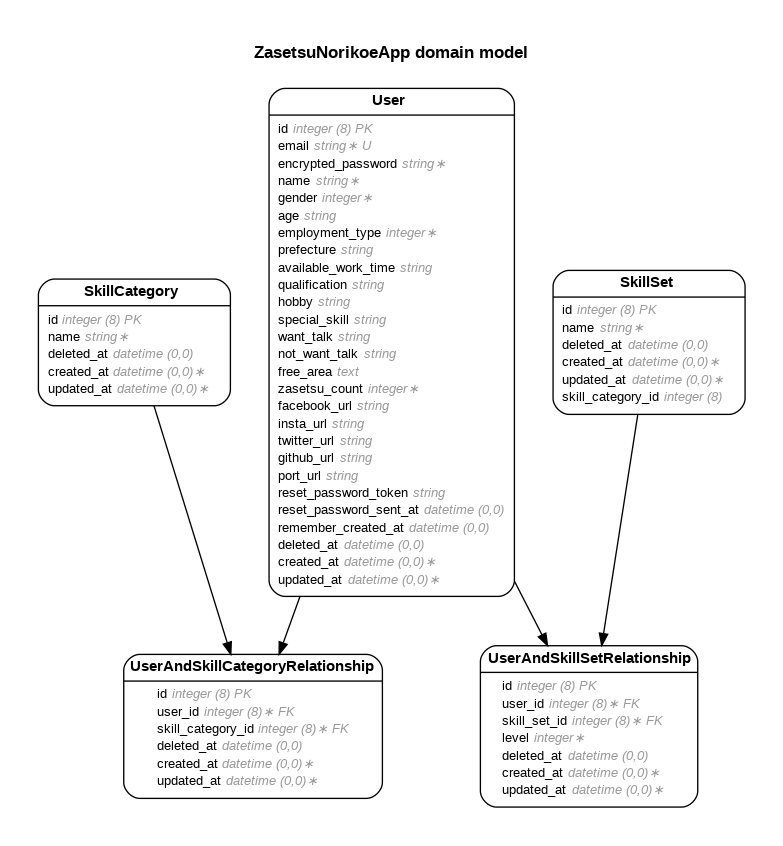
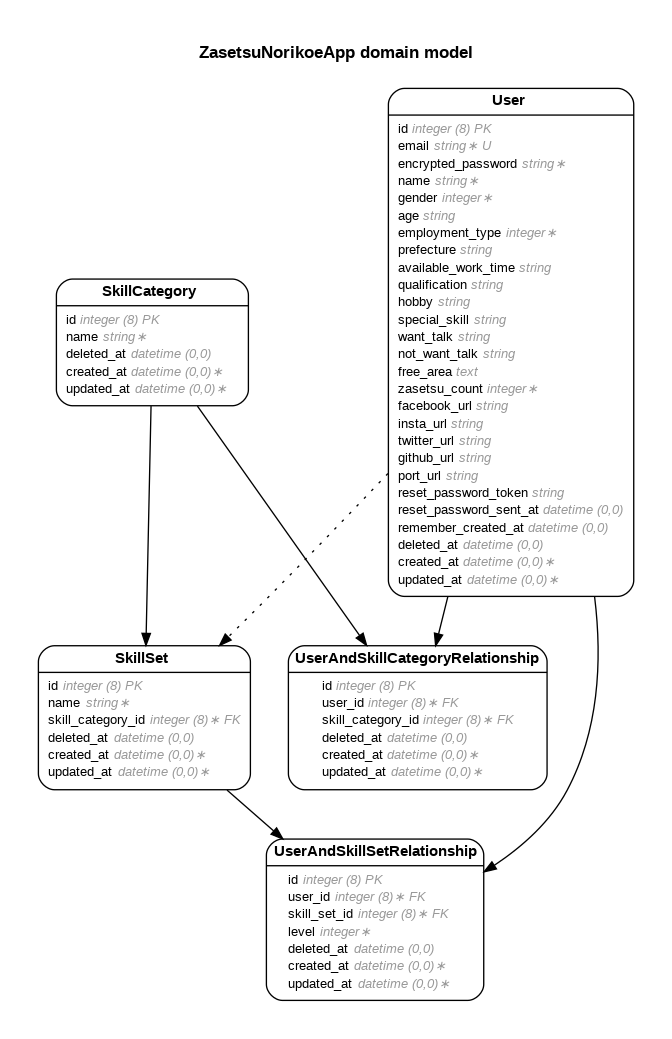
PRコメント修正

diff --git a/db/schema.rb b/db/schema.rb
@@ -10,7 +10,7 @@
 #
 # It's strongly recommended that you check this file into your version control system.
 
-ActiveRecord::Schema.define(version: 2021_03_07_050700) do
+ActiveRecord::Schema.define(version: 2021_02_21_045425) do
 
   create_table "skill_categories", options: "ENGINE=InnoDB DEFAULT CHARSET=utf8", comment: "スキル属性データ(Web制作等)", force: :cascade do |t|
     t.string "name", null: false, comment: "スキル属性名"
@@ -21,10 +21,10 @@ ActiveRecord::Schema.define(version: 2021_03_07_050700) do
 
   create_table "skill_sets", options: "ENGINE=InnoDB DEFAULT CHARSET=utf8", comment: "スキルセットデータ(使用言語, FW等)", force: :cascade do |t|
     t.string "name", null: false, comment: "スキルセット名"
+    t.bigint "skill_category_id", null: false, comment: "スキル属性ID"
     t.datetime "deleted_at", comment: "削除日時"
     t.datetime "created_at", null: false
     t.datetime "updated_at", null: false
-    t.bigint "skill_category_id"
     t.index ["skill_category_id"], name: "index_skill_sets_on_skill_category_id"
   end
 

diff --git a/db/migrate/20210220011736_create_skill_sets.rb b/db/migrate/20210220011736_create_skill_sets.rb
@@ -2,6 +2,7 @@ class CreateSkillSets < ActiveRecord::Migration[5.2]
   def change
     create_table :skill_sets, comment: 'スキルセットデータ(使用言語, FW等)' do |t|
       t.string    :name, null: false, comment: 'スキルセット名'
+      t.references :skill_category, null: false, foreign_key: true, comment: 'スキル属性ID'
       t.datetime  :deleted_at, comment: '削除日時'
 
       t.timestamps

diff --git a/db/fixtures/load/load_data.rb b/db/fixtures/load/load_data.rb
@@ -1,3 +1,5 @@
+# frozen_string_literal: true
+
 # このファイルでseedデータを一括管理している
 # 各seedファイルを"db/fixtures/_master"(マスターデータ用)に"db/fixtures/_develop"(開発データ用)に
 # 追加したら、このファイルに指定すること

diff --git a/db/fixtures/_develop/users.rb b/db/fixtures/_develop/users.rb
@@ -1,3 +1,5 @@
+# frozen_string_literal: true
+
 User.seed(:id,
           { id: 1, email: 'zasetsu_1@example.com', name: 'zasetsu_1', gender: 1, age: '20代', prefecture: '東京都',
             available_work_time: '平日19~20時', password: 'test1111' },

diff --git a/db/fixtures/_develop/user_and_skill_category_relationships.rb b/db/fixtures/_develop/user_and_skill_category_relationships.rb
@@ -1,3 +1,5 @@
+# frozen_string_literal: true
+
 UserAndSkillCategoryRelationship.seed(:id,
                                       { id: 1, user_id: 1, skill_category_id: 1 },
                                       { id: 2, user_id: 1, skill_category_id: 2 })

diff --git a/db/fixtures/_develop/user_and_skill_set_relationships.rb b/db/fixtures/_develop/user_and_skill_set_relationships.rb
@@ -1,3 +1,5 @@
+# frozen_string_literal: true
+
 UserAndSkillSetRelationship.seed(:id,
                                  { id: 1, user_id: 1, skill_set_id: 1, level: 2 },
                                  { id: 2, user_id: 1, skill_set_id: 2, level: 1 },

diff --git a/app/controllers/users_controller.rb b/app/controllers/users_controller.rb
@@ -9,9 +9,7 @@ class UsersController < ApplicationController
   end
 
   # GET /users/1 or /users/1.json
-  def show
-    @user = User.find(params[:id])
-  end
+  def show; end
 
   # GET /users/new
   def new

diff --git a/db/fixtures/_master/skill_sets.rb b/db/fixtures/_master/skill_sets.rb
@@ -1,3 +1,5 @@
+# frozen_string_literal: true
+
 SkillSet.seed(:id,
               { id: 1, name: 'Ruby on Rails', skill_category_id: 1 },
               { id: 2, name: 'PHP', skill_category_id: 1 },

diff --git a/db/fixtures/_master/skill_categories.rb b/db/fixtures/_master/skill_categories.rb
@@ -1,3 +1,5 @@
+# frozen_string_literal: true
+
 SkillCategory.seed(:id,
                    { id: 1, name: 'Web開発' },
                    { id: 2, name: 'デザイン' },
